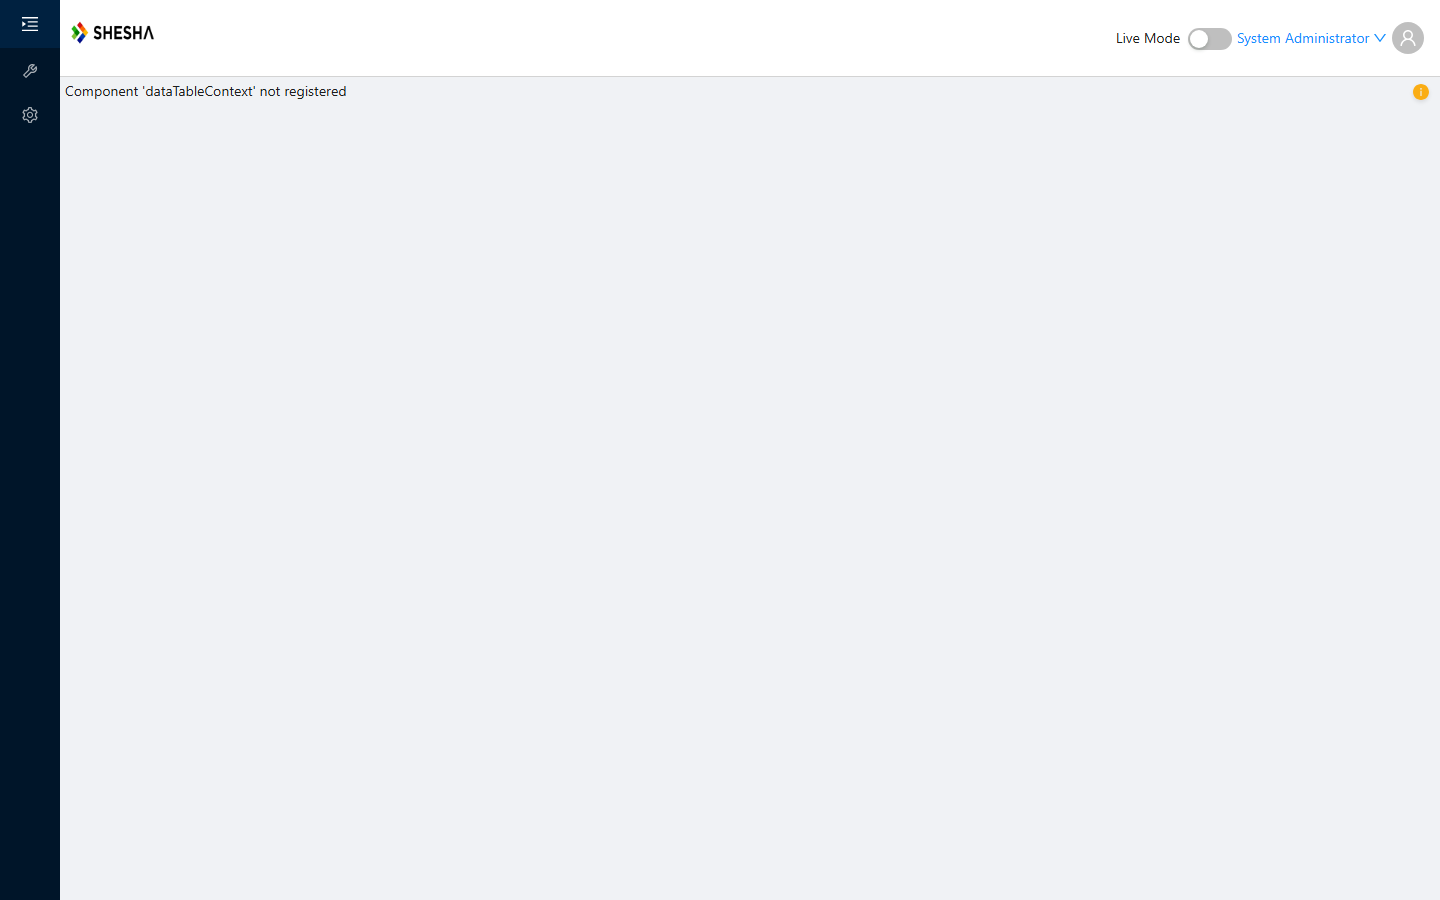
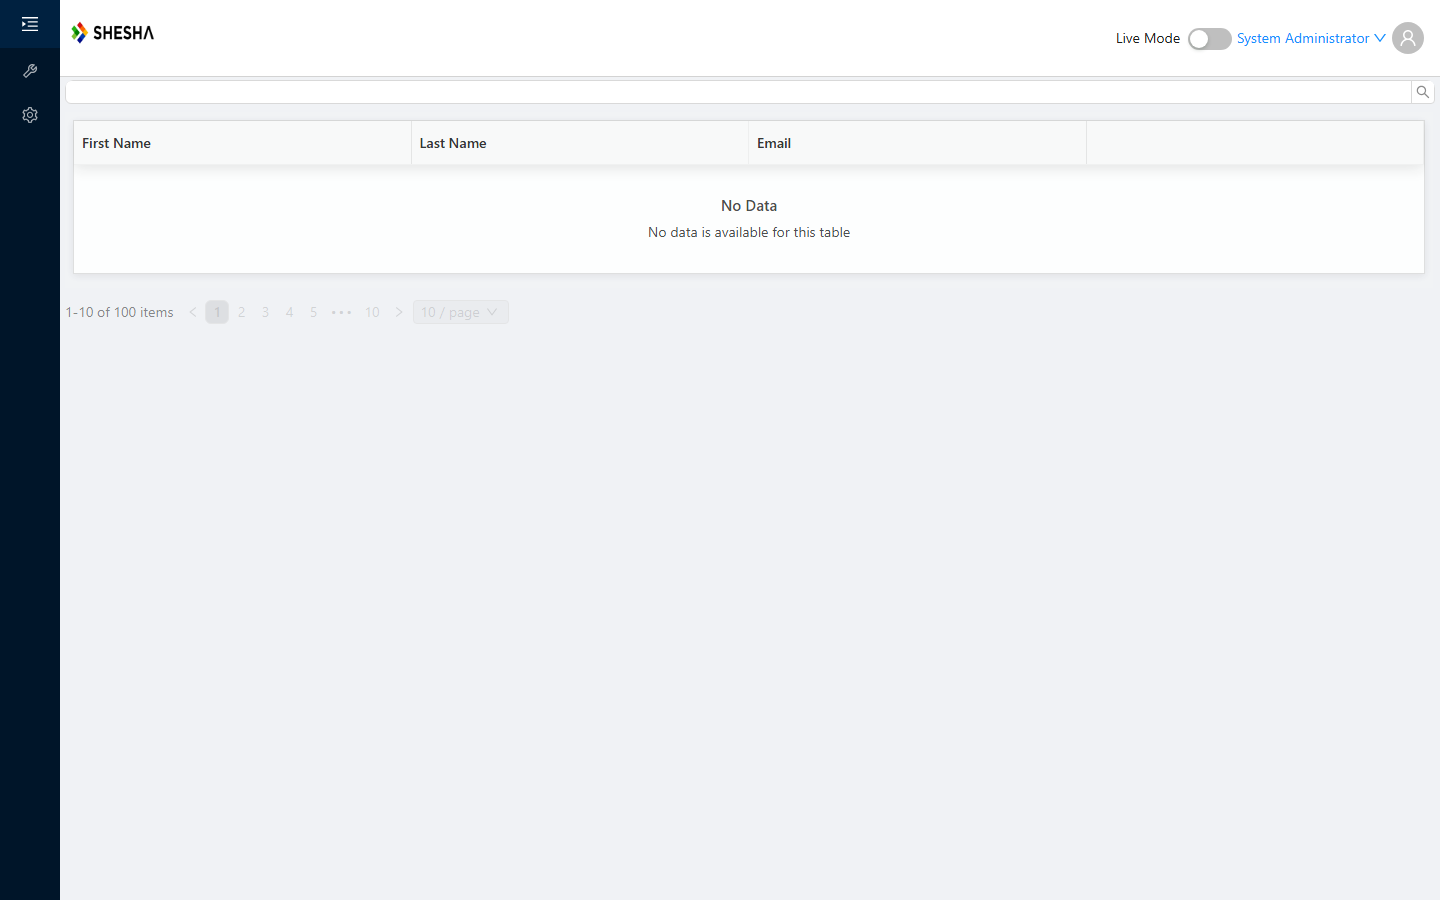
test(v0.0.12): 9/14 forms OK — fixed broken JSON, short IDs, datatableContext config

diff --git a/shesha-form-edit/SKILL.md b/shesha-form-edit/SKILL.md
@@ -137,6 +137,25 @@ function stampTree(nodes, parentId) {
 // Usage: markup.components = stampTree(markup.components, 'root');
 ```
 
+## Step 5.5 — Pre-push JSON safety check (mandatory)
+
+Before calling UpdateMarkup, run this Node snippet to catch JSON-in-JSON errors that will cause `"Expected ',' or ']' after array element in JSON"` in the browser:
+
+```js
+const markup = { /* your form object */ };
+try {
+  const str = JSON.stringify(markup);
+  JSON.parse(str);        // must not throw
+  JSON.parse(JSON.stringify({ markup: str })); // round-trip test
+  console.log('JSON OK, length:', str.length);
+} catch (e) {
+  console.error('BROKEN JSON:', e.message);
+  process.exit(1);
+}
+```
+
+Common causes of failure: template literals (`` `${x}` ``) inside `dynamicEndpoint` or script fields — replace with string concatenation; literal newline characters in string values — replace with `\n`.
+
 ## Step 6 — Validate
 
 Walk tree (unique ids, valid types, valid parent chain); dead-prop check against `assets/component-properties.json`; runtime-type checks (booleans not `"true"`, numbers not `"42"`); dropdown `values` shape (`{ id, label, value }`); `node --check` each script string.
@@ -166,6 +185,19 @@ Success: HTTP 200 with `{ "result": ... }`.
 ## Step 8 — Verify
 
 Re-fetch via `GetByName`/`GetJson`; diff against what you sent. Surface any normalization the server applied. For anonymous forms (`access: 5`), confirm `result.access === 5` — the `Create` endpoint may not honor `access` on initial create; call `UpdateMarkup` once more if it didn't stick.
+
+## Step 8.5 — Diagnose common runtime errors
+
+After verifying, watch for these patterns in the browser console or from Playwright:
+
+| Error | Cause | Fix |
+|---|---|---|
+| `HTTP 400` on datatableContext data load | Entity doesn't have GQL query API enabled in backend | Invoke `shesha-developer:domain-model` to enable GQL on entity, or use `sourceType: "Url"` with an explicit REST endpoint |
+| `HTTP 404` on metadata fetch (`"Failed to fetch metadata of type …"`) | Wrong entity class name in `formSettings.modelType` | Re-verify entity type via `EntityConfig/GetMainDataList` or `FormConfiguration/GetAll` on existing forms |
+| `HTTP 500` on datatableContext | `entityType` or `sourceType` missing on `datatableContext` component | Add `entityType`, `sourceType: "Entity"`, `dataFetchingMode`, `defaultPageSize`, `uniqueStateId` |
+| `JSON parse error` in browser console | Malformed script string in form markup — template literals or literal newlines | Run Step 5.5 JSON safety check; replace template literals with concatenation |
+| Form shows blank/empty without error | Short IDs (`pr1`, `btn2`) or all-`root` parentIds | Re-run `stampTree`; ensure `crypto.randomUUID()` IDs |
+| Detail form shows blank when navigated to without `?id=` | Normal — `gql` loader has no ID to fetch | This is expected; test detail forms with `?id=<real-guid>` |
 
 ## Step 9 — Browser smoke (default; `--no-browser` opts out)
 
@@ -199,6 +231,7 @@ Project-scoped learning state. **Skill reads `.summary.md` by default; opens raw
 
 ## Non-negotiables
 
+- **`datatableContext` (lowercase t) is the correct type** — `dataTableContext` (capital T) is NOT a valid type and silently renders nothing. The clean-form-config index uses `datatableContext`; use that exact string.
 - **`datatableContext` requires explicit `entityType` + `sourceType`** — it does NOT inherit from `formSettings.modelType`. A bare `datatableContext` without these props causes HTTP 500 on page load. Mandatory props: `entityType` (same value as `formSettings.modelType`), `sourceType: "Entity"`, `dataFetchingMode: "paging"`, `defaultPageSize: 10`, `uniqueStateId: "<componentName>"`, `componentName: "<name>"`, `propertyName: "<name>"`. Template:
   ```json
   {
